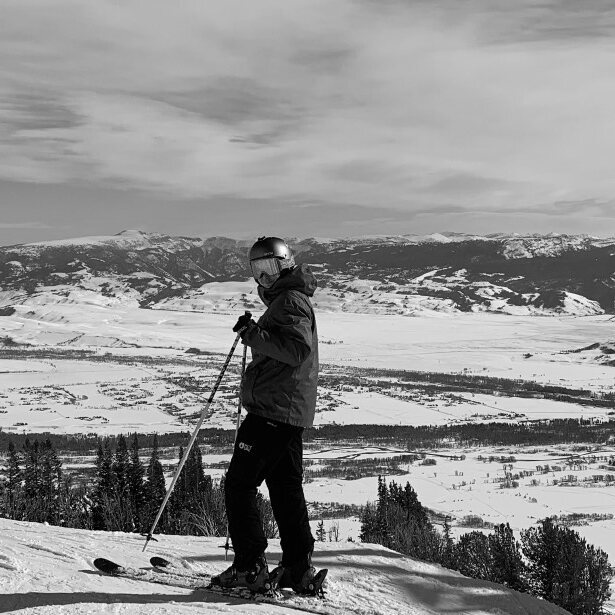
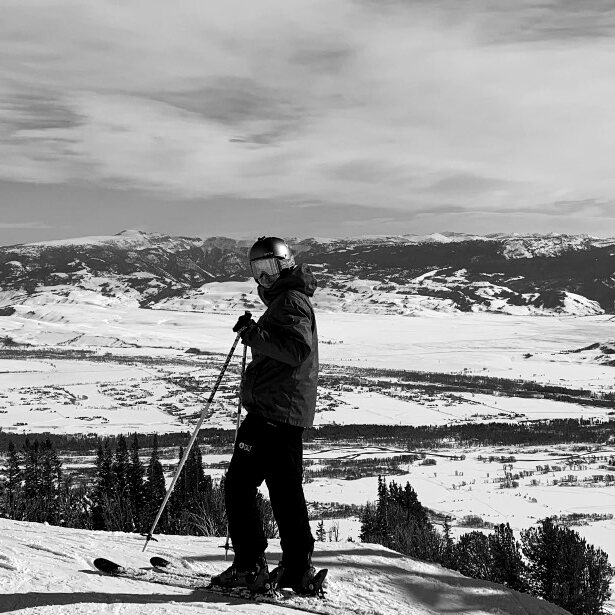
Footer polish: two-line captions, left image contrast
- Outer captions on two lines (place / credit), first lines on one baseline
- Jackson Hole print: deeper blacks and a little more midtone contrast to match
  the other two; crop unchanged, re-checked at 100% for chairlift parts

Claude-Session: https://claude.ai/code/session_01D8QeZqW9XuGrUWD3SXeA71

Changed region(s): [[0.9886, 0.9886, 1.0, 1.0]]

diff --git a/content.js b/content.js
@@ -2,7 +2,7 @@
  * ALL SITE COPY LIVES HERE. Edit text in this file only; index.html just has slots.
  *
  * Each entry: { en, fr, fr_status }. An entry with only "text" is the same in both languages.
- * Simple inline HTML is allowed (<em>, <strong>, <sup>, &nbsp;).
+ * Simple inline HTML is allowed (<em>, <strong>, <sup>, <br>, &nbsp;).
  *
  * French typography: type ordinary spaces. Before : ; ! ? », after «, and in "15 h",
  * script.js swaps them for the correct non-breaking spaces automatically.
@@ -200,8 +200,8 @@ window.SITE_CONTENT = {
 
   /* Footer: the serene hours */
   footer_left_caption: {
-    en: "Jackson&nbsp;Hole&nbsp;· Photographed&nbsp;by&nbsp;Kassia",
-    fr: "Jackson&nbsp;Hole&nbsp;· Photo : Kassia",
+    en: "Jackson&nbsp;Hole<br>Photographed&nbsp;by&nbsp;Kassia",
+    fr: "Jackson&nbsp;Hole<br>Photo : Kassia",
     fr_status: "needs native review"
   },
   footer_left_alt: {
@@ -216,8 +216,8 @@ window.SITE_CONTENT = {
     fr_status: "needs native review"
   },
   footer_right_caption: {
-    en: "The&nbsp;Dolomites&nbsp;· Photographed&nbsp;by&nbsp;Raphaël",
-    fr: "Les&nbsp;Dolomites&nbsp;· Photo : Raphaël",
+    en: "The&nbsp;Dolomites<br>Photographed&nbsp;by&nbsp;Raphaël",
+    fr: "Les&nbsp;Dolomites<br>Photo : Raphaël",
     fr_status: "needs native review"
   },
   footer_right_alt: {
